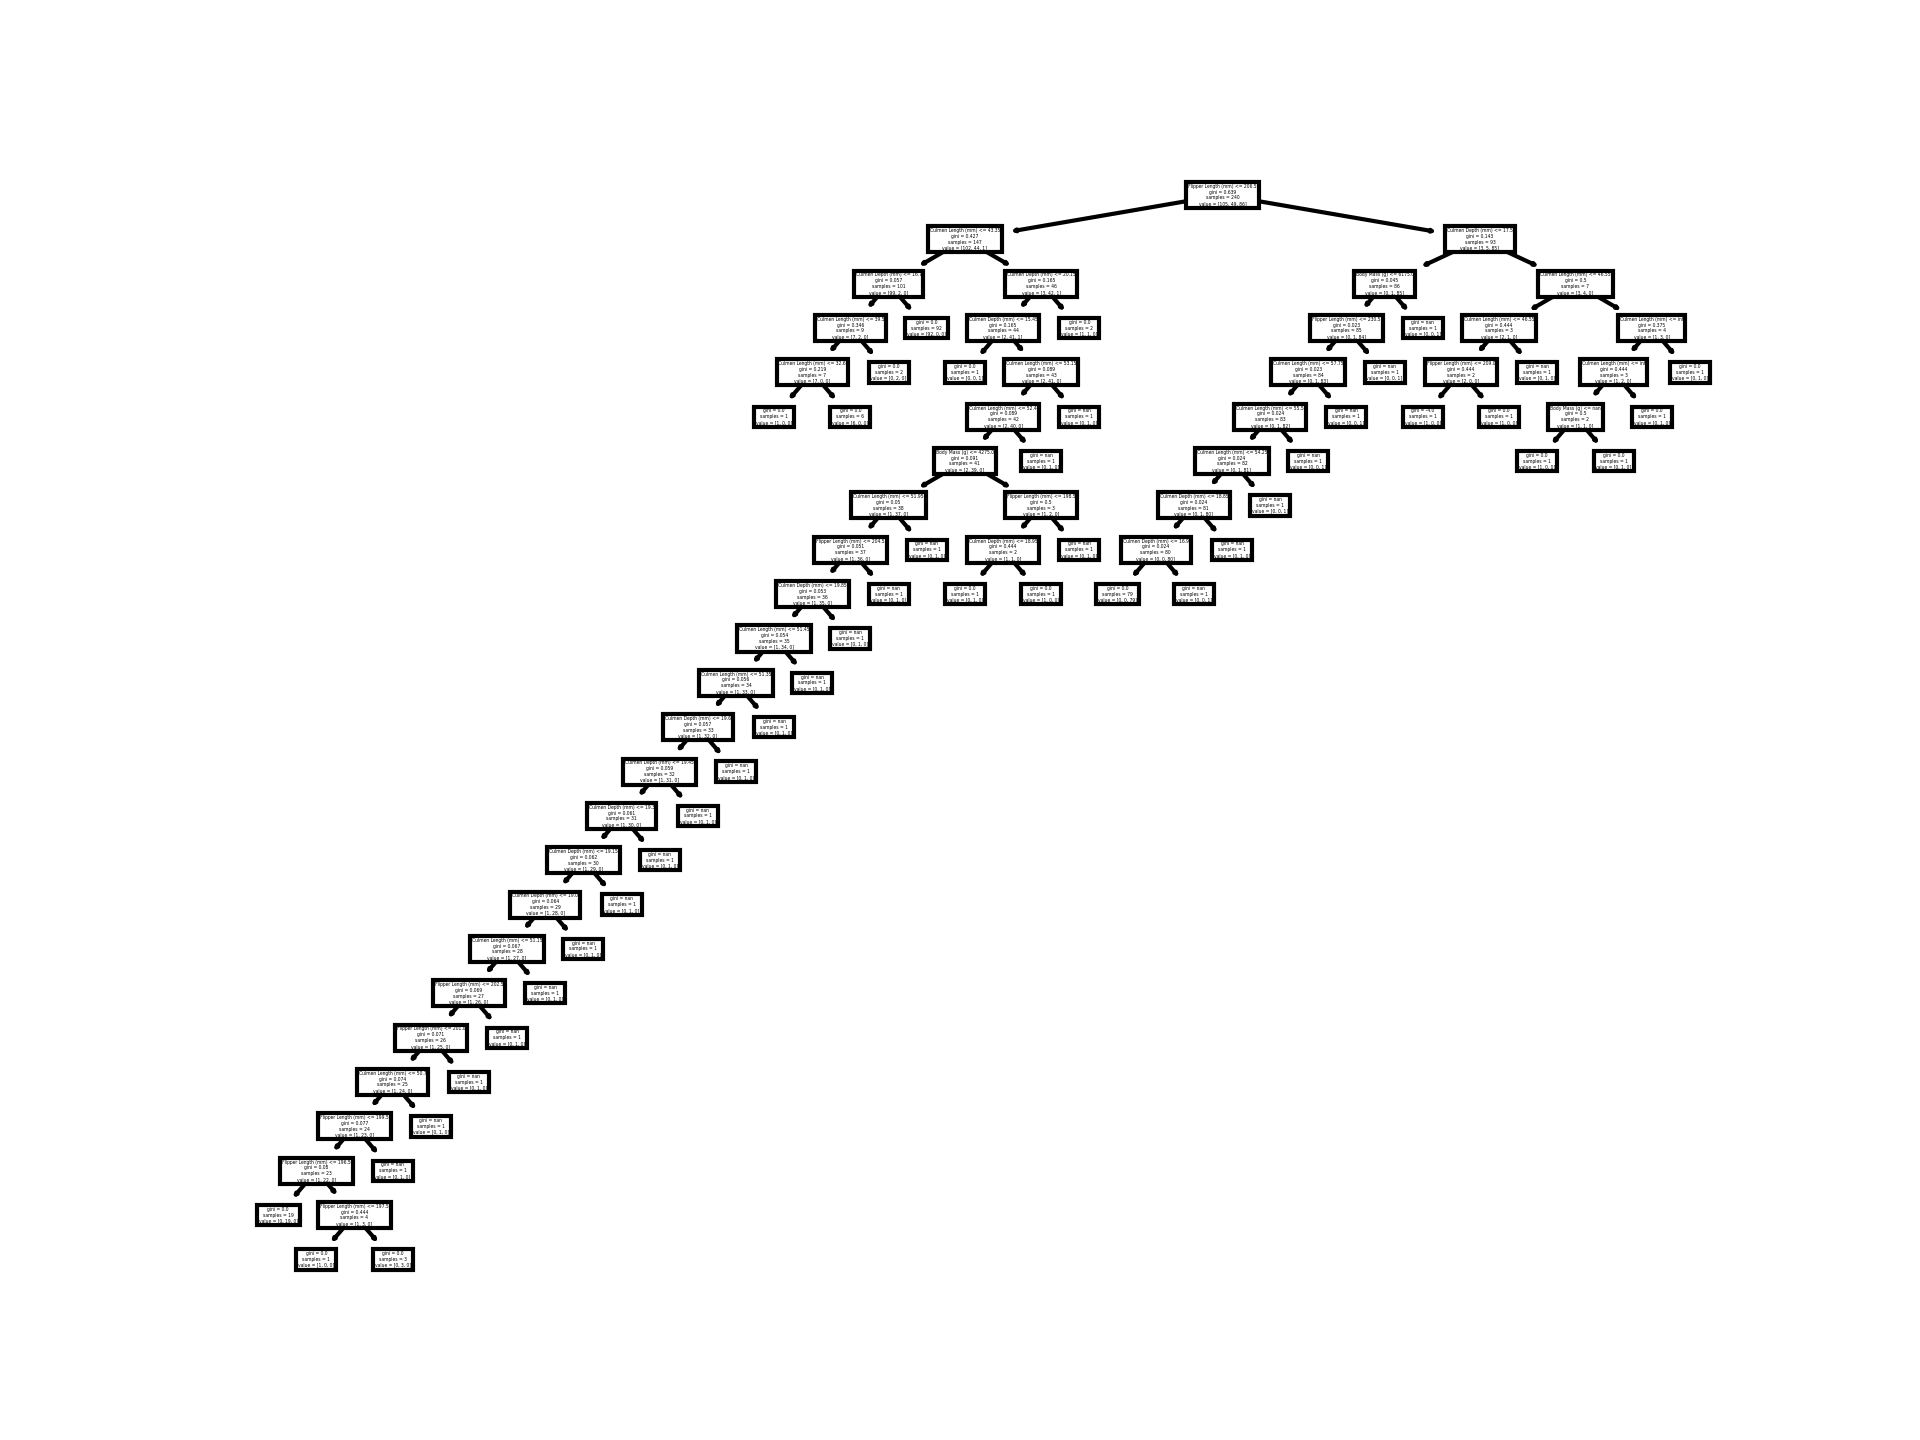
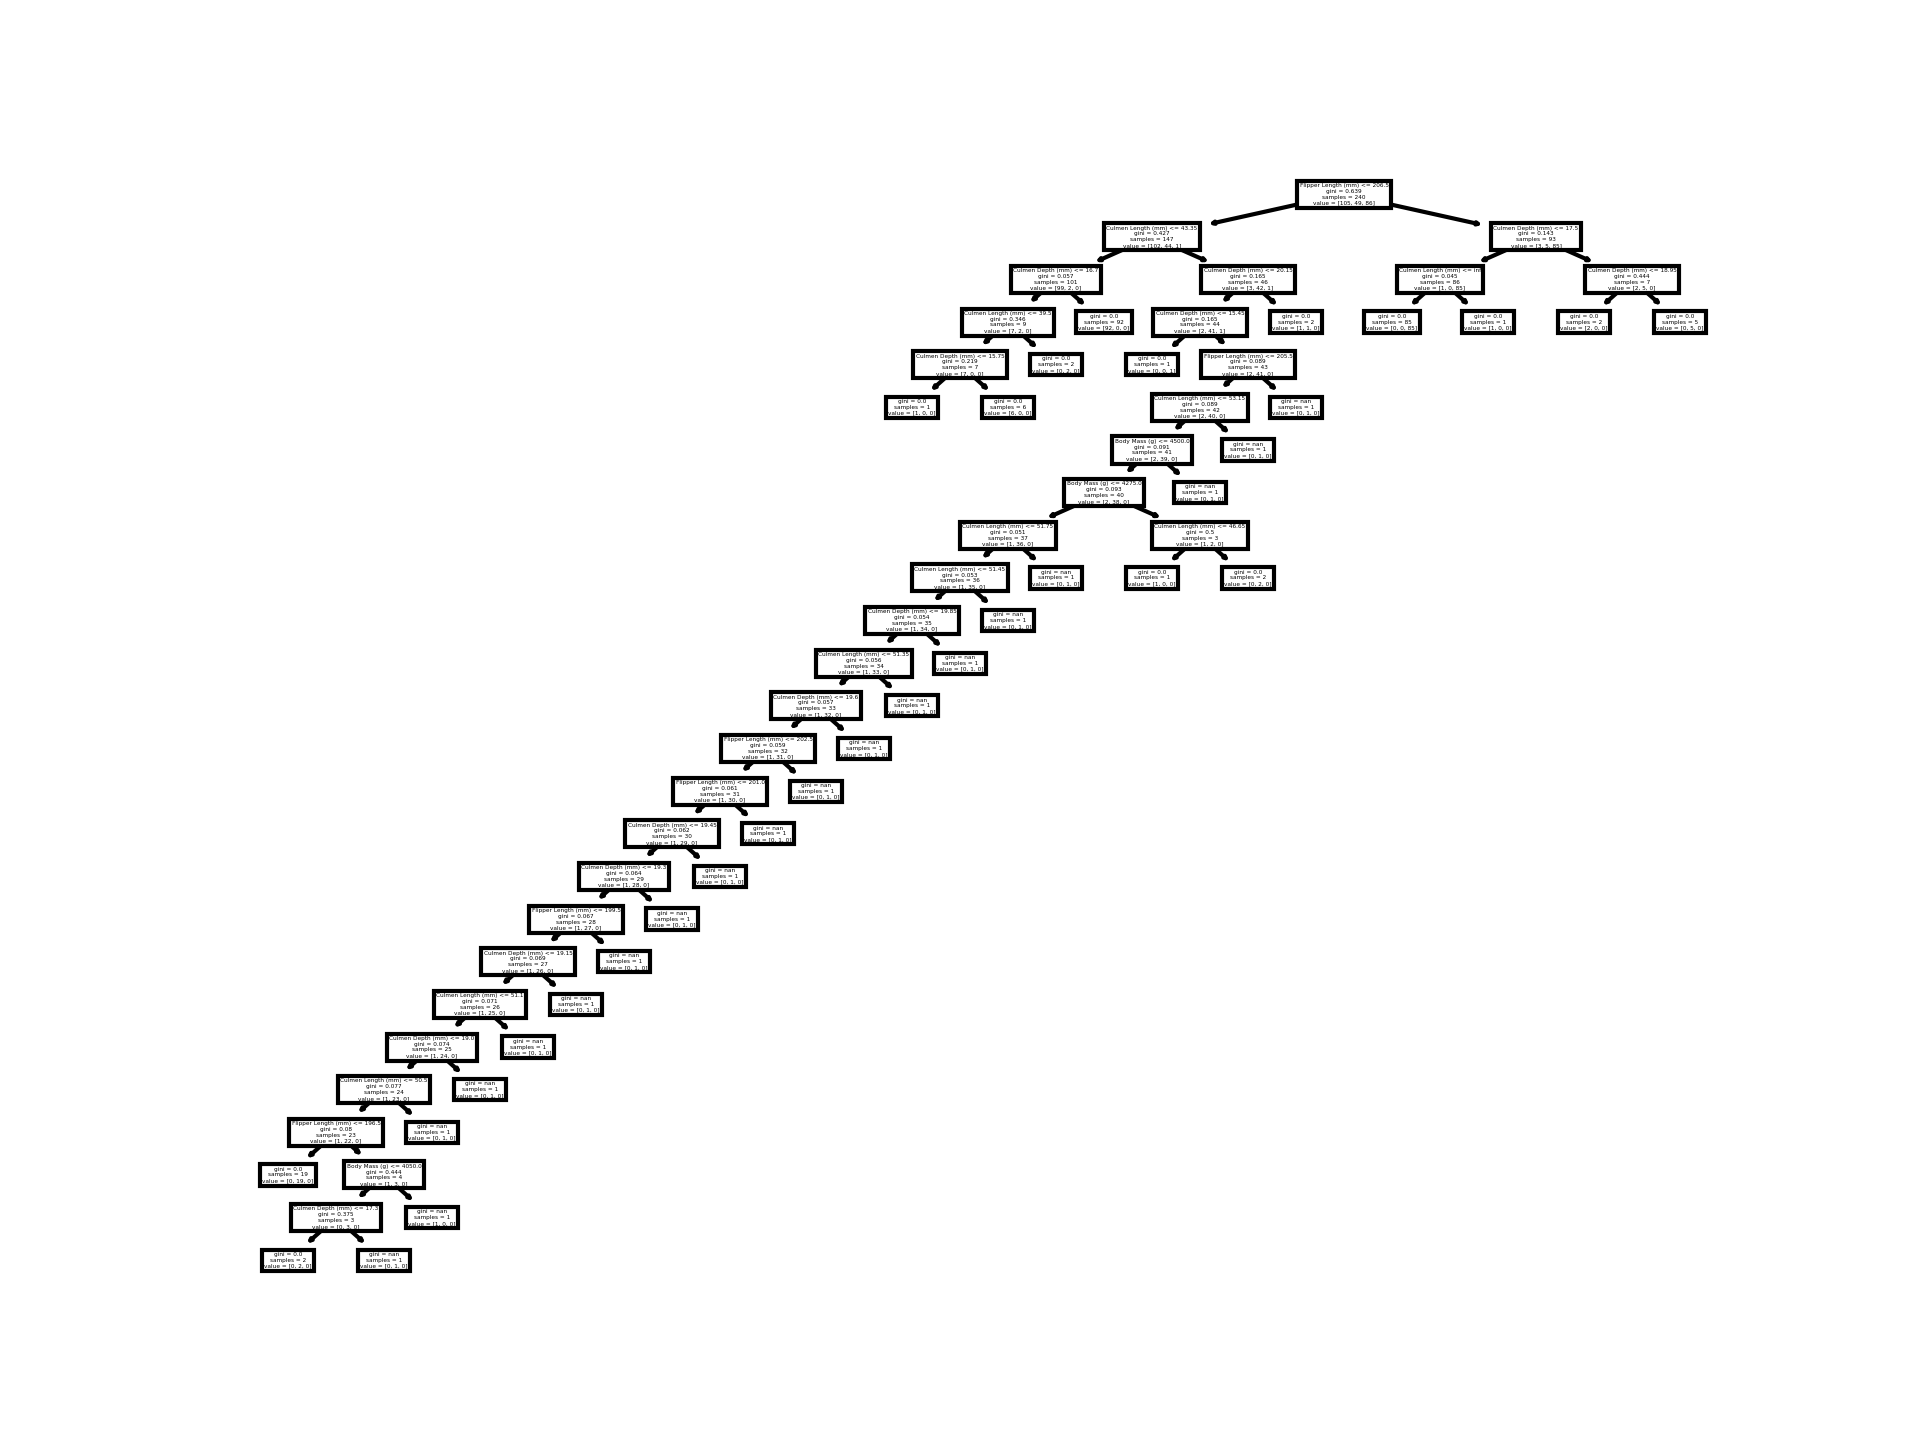
Added AI to website

Changed region(s): [[0.125, 0.125, 0.9062, 0.9062]]

diff --git a/Penguin/flask_penguins/templates/home.html b/Penguin/flask_penguins/templates/home.html
@@ -3,6 +3,10 @@
 {% block content %}
 <div class="flex-container">
     <div class="flex-item-left">
+      <form method="post" action="/test_model_penguin/" >
+        <button name="test_model_button" type="submit">Test the model</button>
+        <p>{{ accuracy_result }}</p>
+      </form>
     </div>
     <div class="flex-item-right">
       <img src="/static/img/penguins.png" width="500" alt="Madagascar Penguins">

diff --git a/Penguin/flask_penguins/app/penguin_model.py b/Penguin/flask_penguins/app/penguin_model.py
@@ -1,0 +1,42 @@
+import pandas as pd
+import numpy as np
+import matplotlib.pyplot as plt
+from sklearn import tree
+from sklearn.tree import DecisionTreeClassifier # Import Decision Tree Classifier
+from sklearn.model_selection import train_test_split # Import train_test_split function
+from sklearn import metrics #Import scikit-learn metrics module for accuracy calculation
+import pickle
+import pickle
+
+def test_model():
+    loaded_penguin_model = pickle.load(open('flask_penguins\static\models\penguin_model' , 'rb'))
+
+    # Read the CSV file
+    penguins = pd.read_csv("flask_penguins/static/data/penguins.csv")
+    penguins_original = pd.read_csv("flask_penguins/static/data/penguins.csv")
+    
+    # Select columns with float64 data type
+    penguins = penguins.select_dtypes(include='float64')
+    
+    # Remove specific columns & Empty Rows
+    columns_to_remove = ["Delta 15 N (o/oo)", "Delta 13 C (o/oo)"]
+    penguins = penguins.drop(columns=columns_to_remove)
+    penguins = penguins.dropna()
+    
+    # Include the "Species" column from the original sheet
+    species_column = penguins_original['Species']
+    penguins = pd.concat([penguins, species_column], axis=1)
+    d = {'Adelie Penguin (Pygoscelis adeliae)': 0, 'Chinstrap penguin (Pygoscelis antarctica)': 1, 'Gentoo penguin (Pygoscelis papua)': 2}
+    penguins['Species'] = penguins['Species'].map(d)
+    features = ['Culmen Length (mm)', 'Culmen Depth (mm)', 'Flipper Length (mm)', 'Body Mass (g)']
+    X = penguins[features]
+    y = penguins['Species']
+    X_train, X_test, y_train, y_test = train_test_split(X, y, test_size=0.3, random_state=1) # 70% training and 30% test
+
+
+    y_pred = loaded_penguin_model.predict(X_test)
+
+    # Model Accuracy, how often is the classifier correct?
+    accuracy = metrics.accuracy_score(y_test, y_pred)
+    return accuracy
+

diff --git a/Penguin/flask_penguins/main.py b/Penguin/flask_penguins/main.py
@@ -1,17 +1,19 @@
-from flask import Flask, render_template
+from flask import *
+from app.penguin_model import test_model
 
 # Initialize application & Session
 app = Flask(__name__)
+app.config['SECRET_KEY'] = 'HTX123'  
 
 @app.route('/')
 def home():
     print("Website started")
     return render_template('home.html')
 
-@app.route('/identify')
-def identify():
-    print("Website started")
-    return render_template('identify.html')
+@app.route('/test_model_penguin/', methods=['POST'])
+def test_model_penguin():
+    accuracy_result = test_model()
+    return render_template('home.html', accuracy_result=accuracy_result)
 
 if __name__ == '__main__':
     app.debug = True
